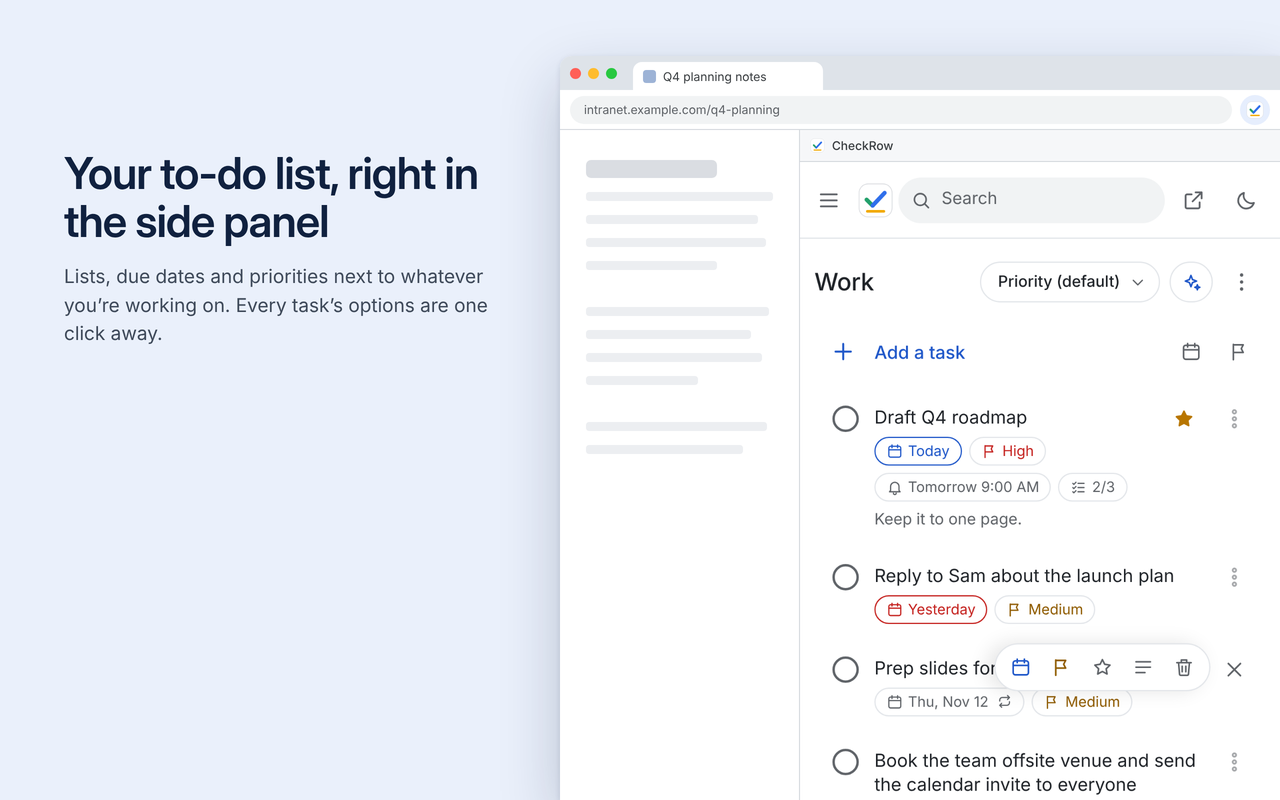
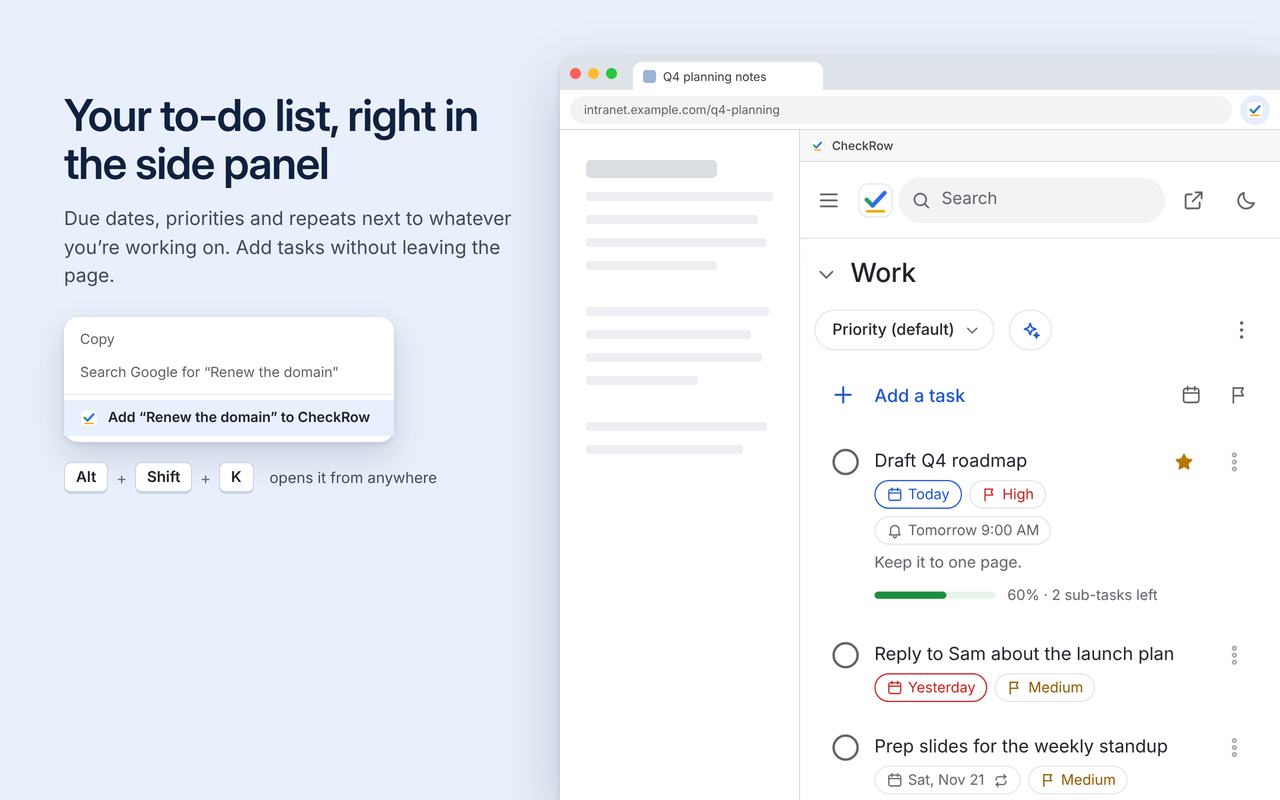
Store screenshots for 0.9.6: right-click add, sub-task progress, reminders, AI Brief, privacy
Claude-Session: https://claude.ai/code/session_014twY7nhW3nMAMeUYrRkujb

diff --git a/store-assets/README.md b/store-assets/README.md
@@ -1,17 +1,25 @@
 # CheckRow store graphics
 
-Everything needed for the image sections of the Chrome Web Store listing. All screenshots show the real extension (version 0.8.0) with sample tasks.
+Everything needed for the image sections of the Chrome Web Store listing. All screenshots show the real extension (version 0.9.6) with sample tasks.
 
 ## Chrome Web Store (Developer Dashboard → Store listing)
 
 | Slot | File | Size |
 | --- | --- | --- |
 | Store icon | Comes from the extension package (`app/icons/checkrow-128.png`, same as `store-icon-128.png` here) | 128×128, 96×96 artwork + transparent padding |
-| Screenshots (up to 5) | `screenshots/screenshot-1-side-panel` … `screenshot-5-sync-dark` | 1280×800 |
+| Screenshots (up to 5) | `screenshots/screenshot-1-side-panel` … `screenshot-5-private-dark` | 1280×800 |
 | Small promo tile | `promo/promo-small-440x280.png` | 440×280 |
 | Marquee promo tile (optional) | `promo/promo-marquee-1400x560.png` | 1400×560 |
 
-Chrome allows five screenshots. Use 1–5, or swap in `screenshot-6-full-tab.png` if you prefer it over one of the others.
+Chrome allows five screenshots. Upload them in order:
+
+1. Side panel + right-click “Add to CheckRow” + Alt+Shift+K
+2. Sub-tasks with the green progress bar
+3. Reminders: Once/Repeating, Snooze and Mark complete, Add to calendar
+4. AI Brief
+5. Dark theme, list switcher, privacy (no account, no tracking, backups, sync)
+
+The store description is in `DESCRIPTION.txt`.
 
 ## Notes
 
